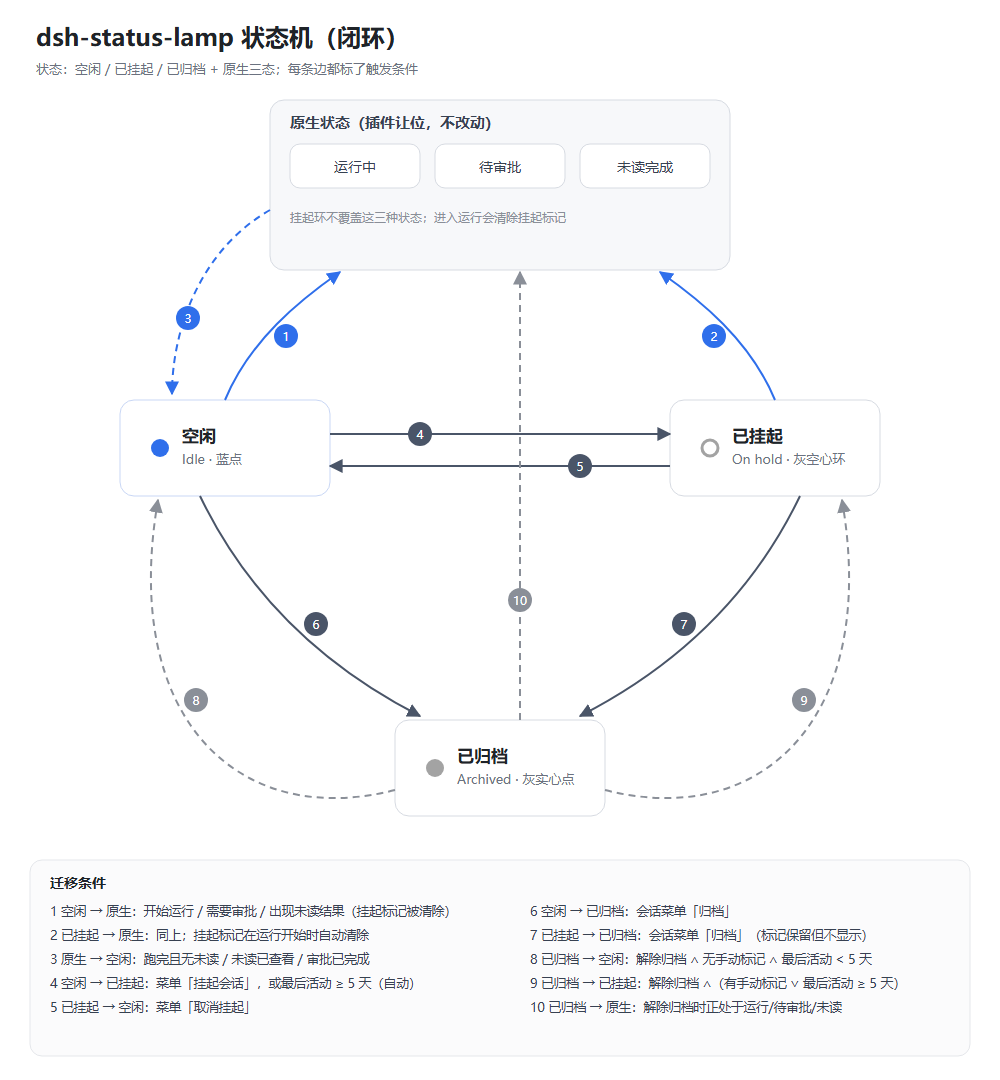
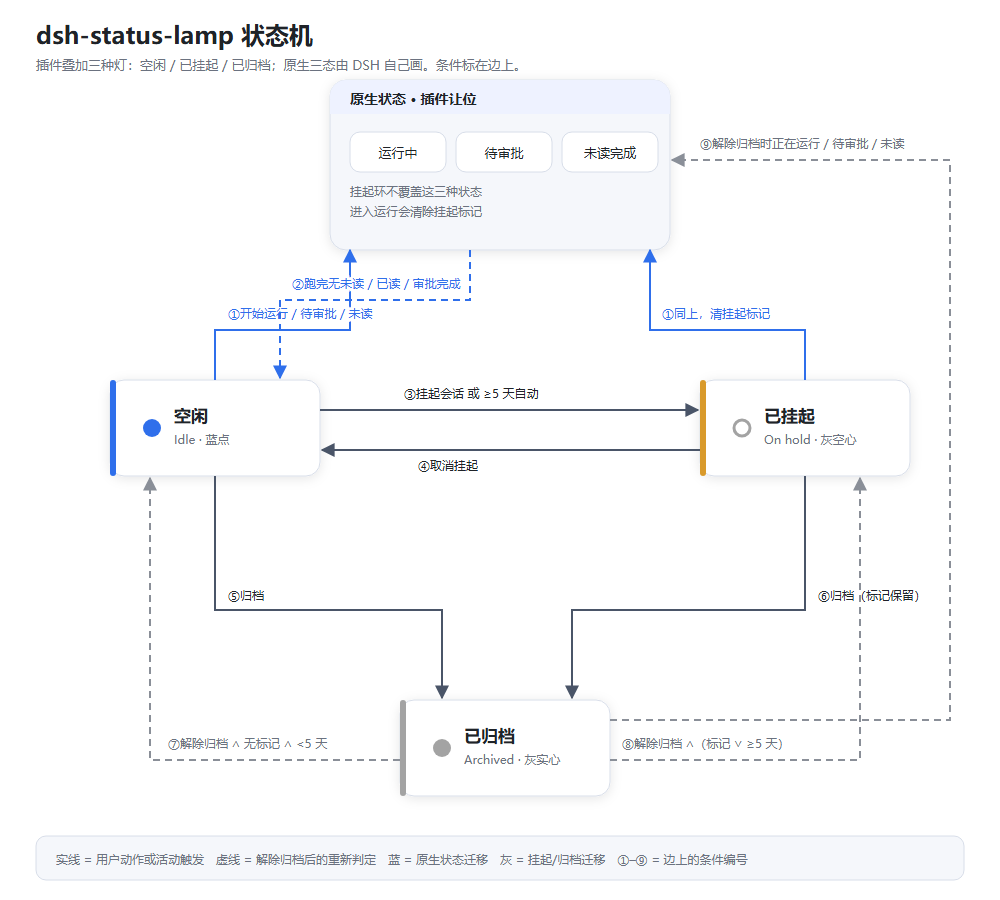
docs: mermaid state machine + refined light/dark diagrams

diff --git a/docs/STATE-MACHINE.md b/docs/STATE-MACHINE.md
@@ -1,0 +1,71 @@
+# 状态机 · State machine
+
+> 图有两套：GitHub 会自动渲染下面的 Mermaid（改逻辑只改文本）；需要图片嵌在 README / npm 时用 `docs/state-machine.png`（亮色）或 `docs/state-machine-dark.png`（暗色）。
+
+## 中文
+
+```mermaid
+stateDiagram-v2
+    direction LR
+
+    state "空闲（蓝点）" as Idle
+    state "原生状态（运行 / 待审批 / 未读）" as Native
+    state "已挂起（灰空心）" as OnHold
+    state "已归档（灰实心）" as Archived
+
+    Idle --> Native: ①开始运行 / 待审批 / 未读
+    OnHold --> Native: ①同上（清挂起标记）
+    Native --> Idle: ②跑完无未读 / 已读 / 审批完成
+    Idle --> OnHold: ③挂起会话 或 最后活动≥5天
+    OnHold --> Idle: ④取消挂起
+    Idle --> Archived: ⑤归档
+    OnHold --> Archived: ⑥归档（标记保留）
+    Archived --> Idle: ⑦解除归档 ∧ 无标记 ∧ <5天
+    Archived --> OnHold: ⑧解除归档 ∧（有标记 ∨ ≥5天）
+    Archived --> Native: ⑨解除归档时正在运行 / 待审批 / 未读
+```
+
+迁移条件：
+
+| # | From → To | 条件 / 事件 | 副作用 |
+|---|---|---|---|
+| ① | 空闲、已挂起 → 原生 | 开始运行 / 需要审批 / 出现未读 | 运行开始时清除挂起标记 |
+| ② | 原生 → 空闲 | 跑完且无未读 / 未读已读 / 审批完成 | — |
+| ③ | 空闲 → 已挂起 | 菜单「挂起会话」或最后活动 ≥ 5 天 | 手动写标记；自动仅展示 |
+| ④ | 已挂起 → 空闲 | 菜单「取消挂起」 | 清标记并记唤醒时刻 |
+| ⑤ | 空闲 → 已归档 | 会话菜单「归档」 | 行首灯消失，灯移到时间左侧 |
+| ⑥ | 已挂起 → 已归档 | 会话菜单「归档」 | 标记保留但不显示，不参与挂起计算 |
+| ⑦ | 已归档 → 空闲 | 解除归档 ∧ 无手动标记 ∧ 最后活动 < 5 天 | 恢复蓝点 |
+| ⑧ | 已归档 → 已挂起 | 解除归档 ∧（有手动标记 ∨ 最后活动 ≥ 5 天） | 恢复灰空心环 |
+| ⑨ | 已归档 → 原生 | 解除归档时正处于运行 / 待审批 / 未读 | 原生灯接管 |
+
+不变量：
+
+- 归档期间 `blank = true`：**不参与自动挂起计算，也不渲染行首灯**。
+- 归档**不清除**手动挂起标记；只有"开始运行"会清。
+- 判定顺序：原生四态 > 已挂起 > 空闲；归档态独立展示。
+
+## English
+
+```mermaid
+stateDiagram-v2
+    direction LR
+
+    state "Idle (blue dot)" as Idle
+    state "Native (running / pending / unread)" as Native
+    state "On hold (hollow ring)" as OnHold
+    state "Archived (solid dot)" as Archived
+
+    Idle --> Native: 1 starts running / needs approval / unread
+    OnHold --> Native: 1 same, clears the hold mark
+    Native --> Idle: 2 finished with no unread / read / approved
+    Idle --> OnHold: 3 Hold session or last activity >= 5 days
+    OnHold --> Idle: 4 Resume session
+    Idle --> Archived: 5 archive
+    OnHold --> Archived: 6 archive (mark kept, not shown)
+    Archived --> Idle: 7 unarchive AND no mark AND < 5 days
+    Archived --> OnHold: 8 unarchive AND (mark OR >= 5 days)
+    Archived --> Native: 9 unarchive while running / pending / unread
+```
+
+Static images: `docs/state-machine.png` (light), `docs/state-machine-dark.png` (dark), vector sources `docs/state-machine.svg` / `docs/state-machine-dark.svg`.
